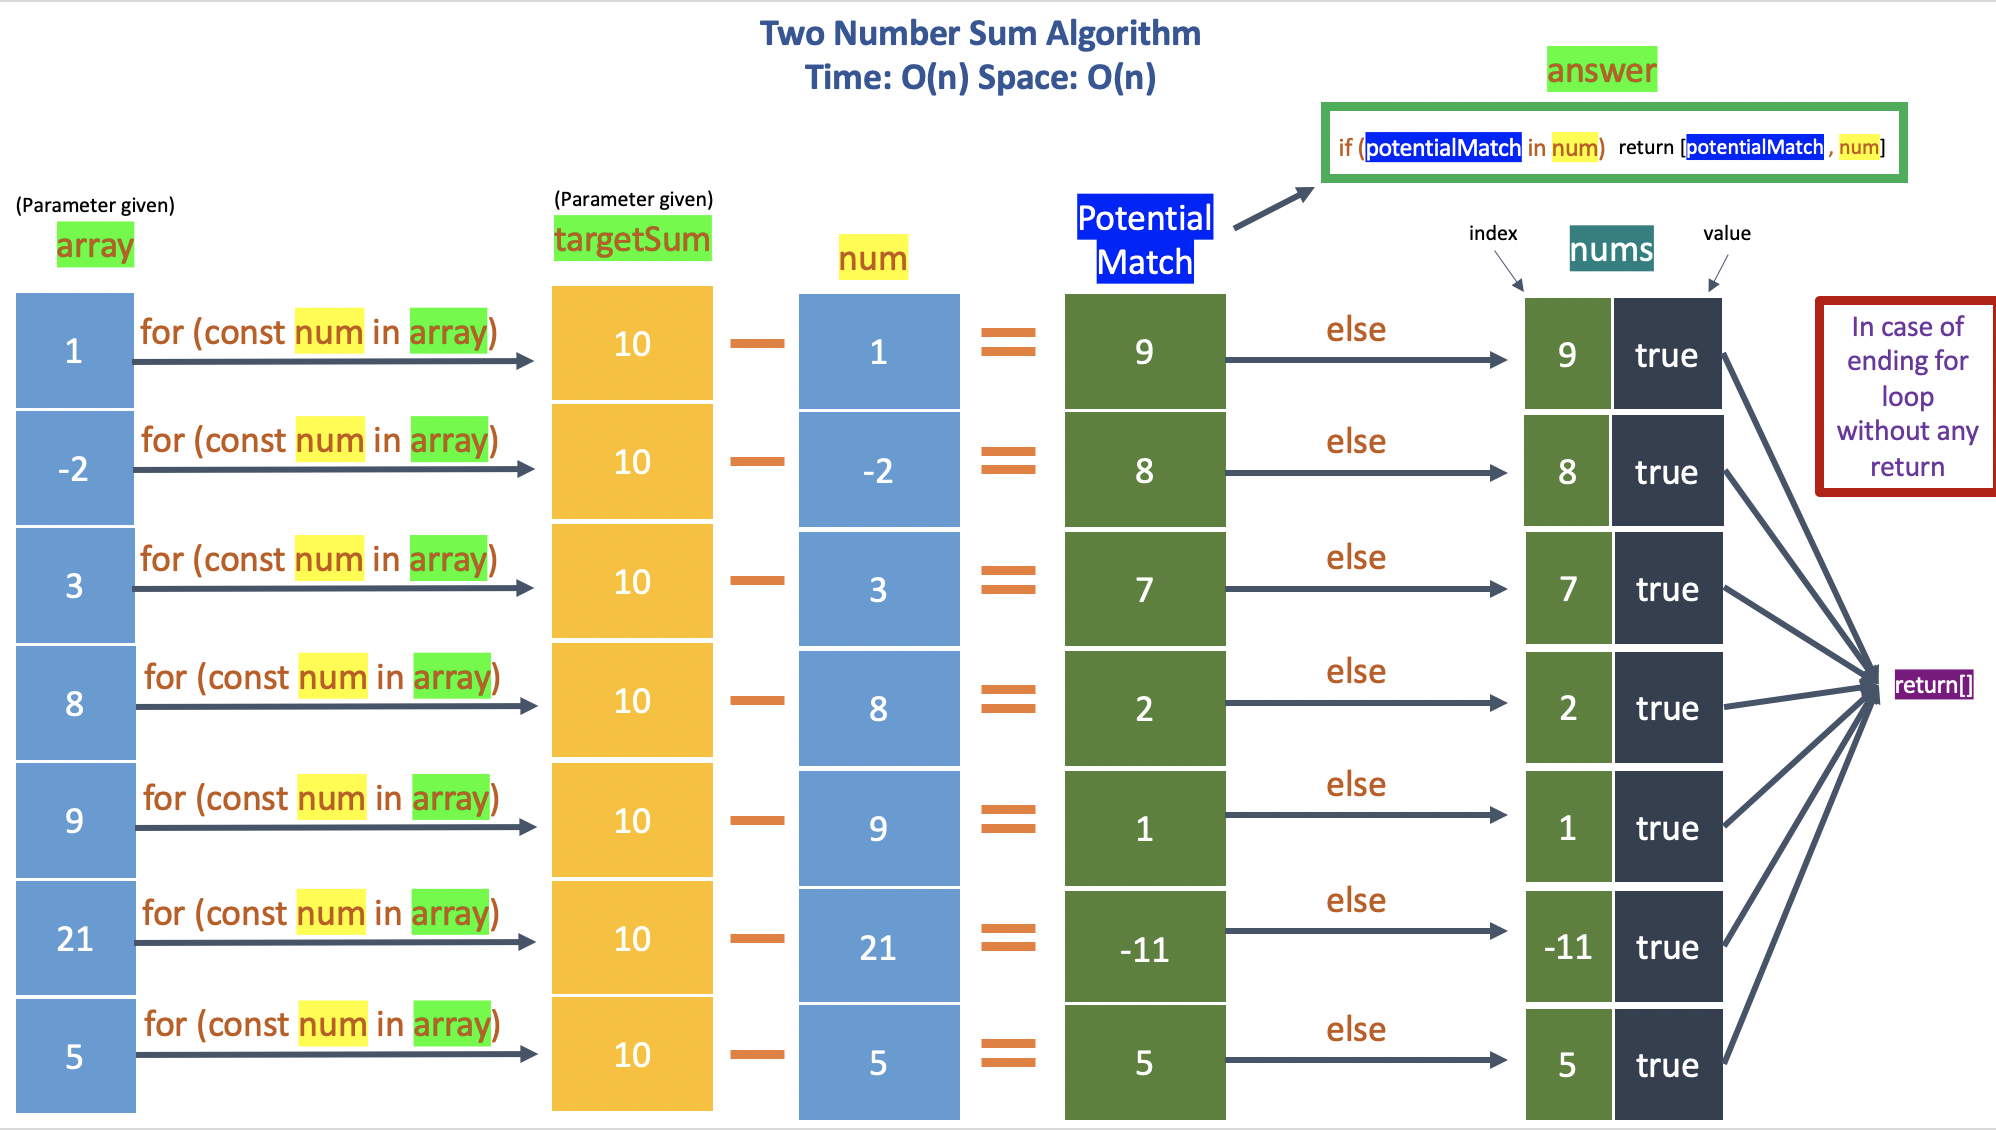
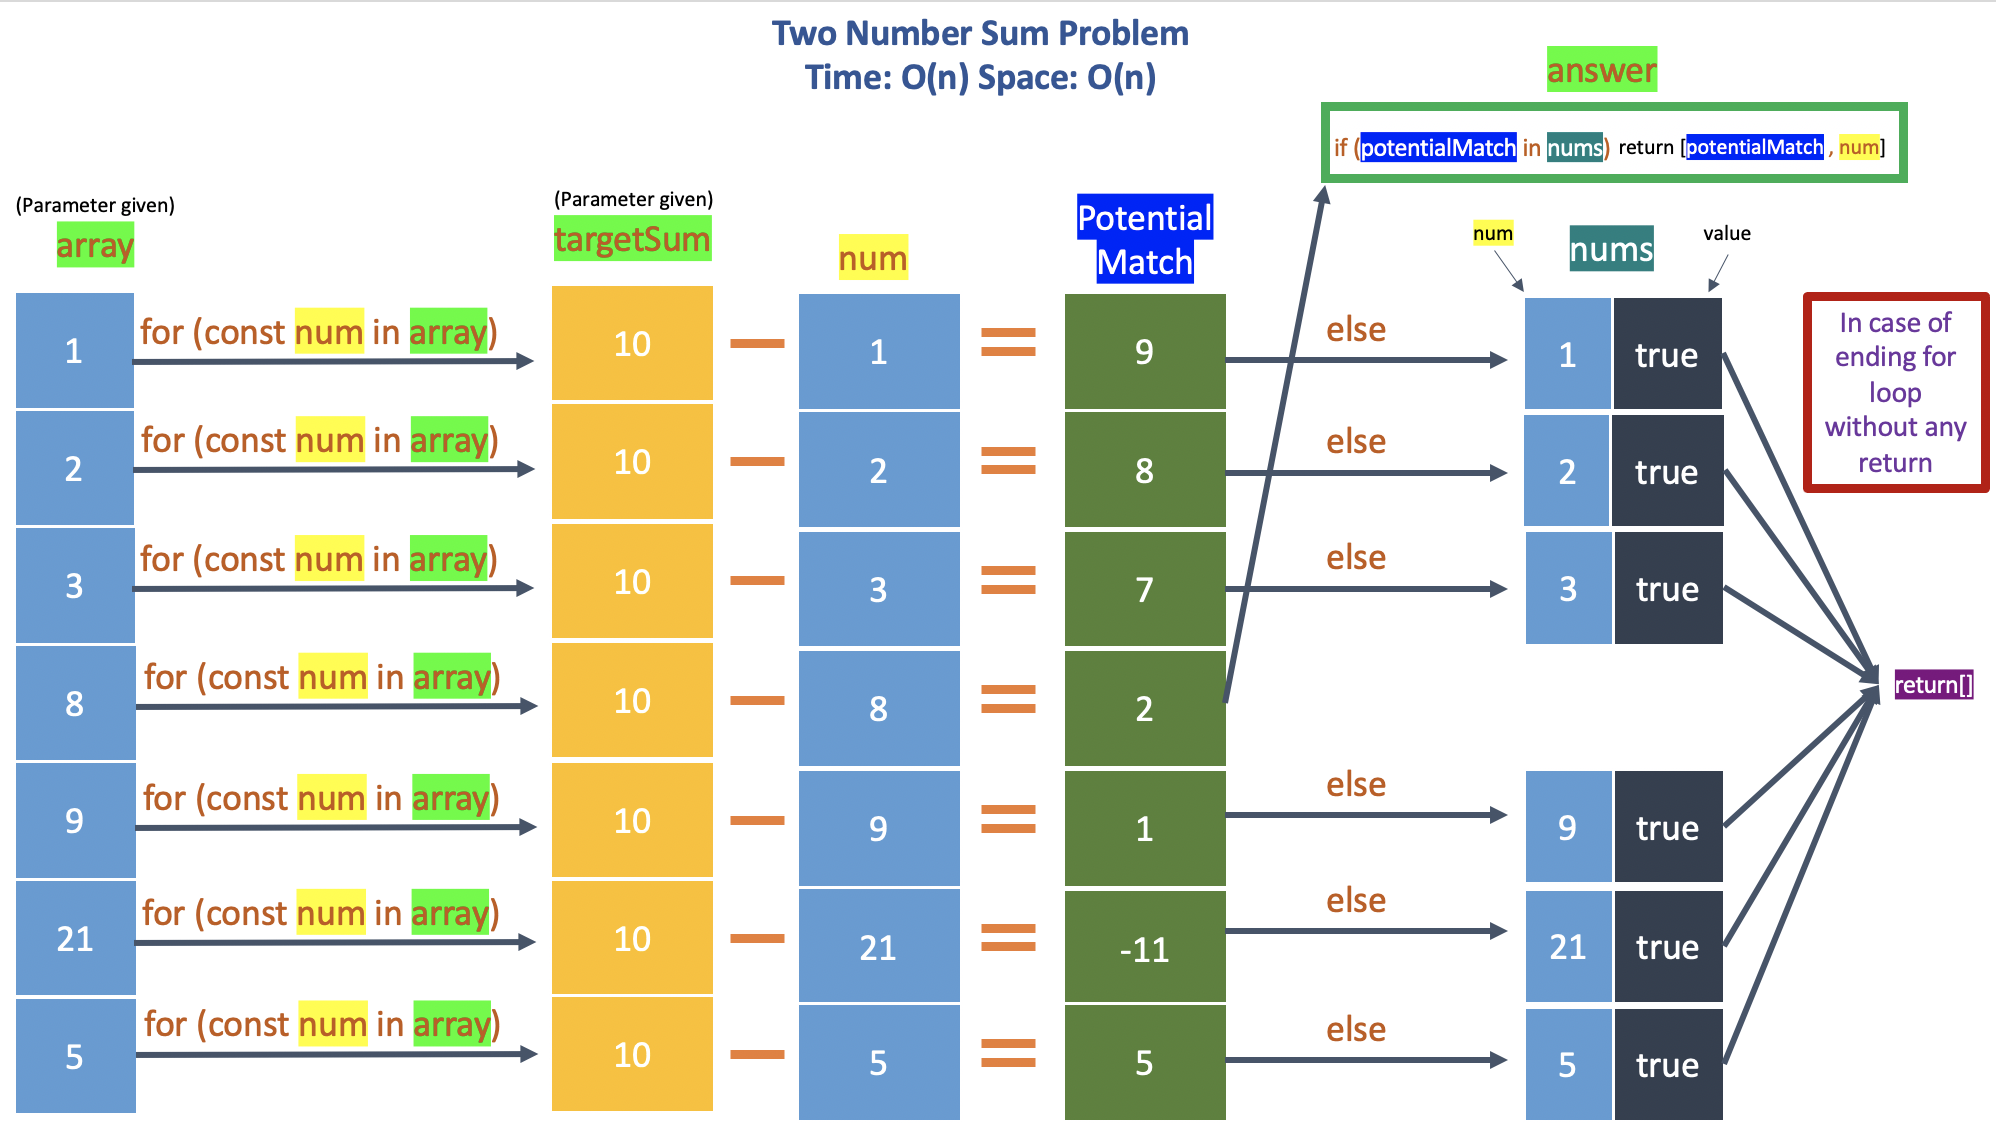
fix: change the image

diff --git a/arrays/two-number-sum.js b/arrays/two-number-sum.js
@@ -1,23 +1,19 @@
-const array = [3, 5, -4, 8, 11, 1, -1, 6];
-const targetSum = 10;
-
 function twoNumberSum(array, targetSum) {
-    const nums = {1: 'test'};
+    const nums = {};
 
     for(const num of array) {
         // iterating elements of array individually
         const potentialMatch = targetSum - num; // looking for potential value next to num
-        if(1 in nums){
-            console.log(true);
+        if(potentialMatch in nums) { // 
+            return [potentialMatch, num];
+        }
+        else {
+            nums[num] = true;
         }
     }
+    return [];
 }
 
-twoNumberSum(array, targetSum);
-
-// var numbers1 = [45, 4, 9, 16, 25];
-// var numbers2 = numbers1.map(myFunction);
-// console.log(numbers2)
-// function myFunction(value, index, array) {
-//   return value * 2; 
-// }
+const array = [1, 2, 3, 8, 21, 5];
+const targetSum = 10;
+console.log(twoNumberSum(array, targetSum));
